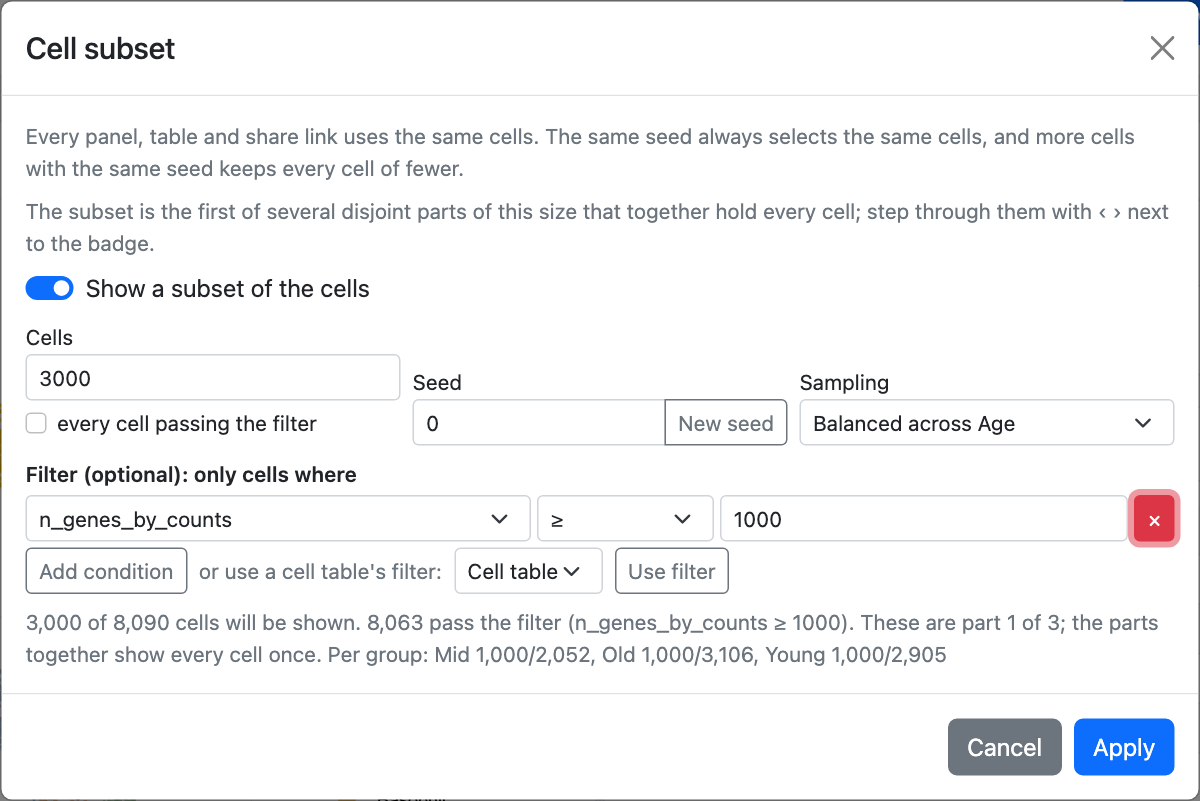
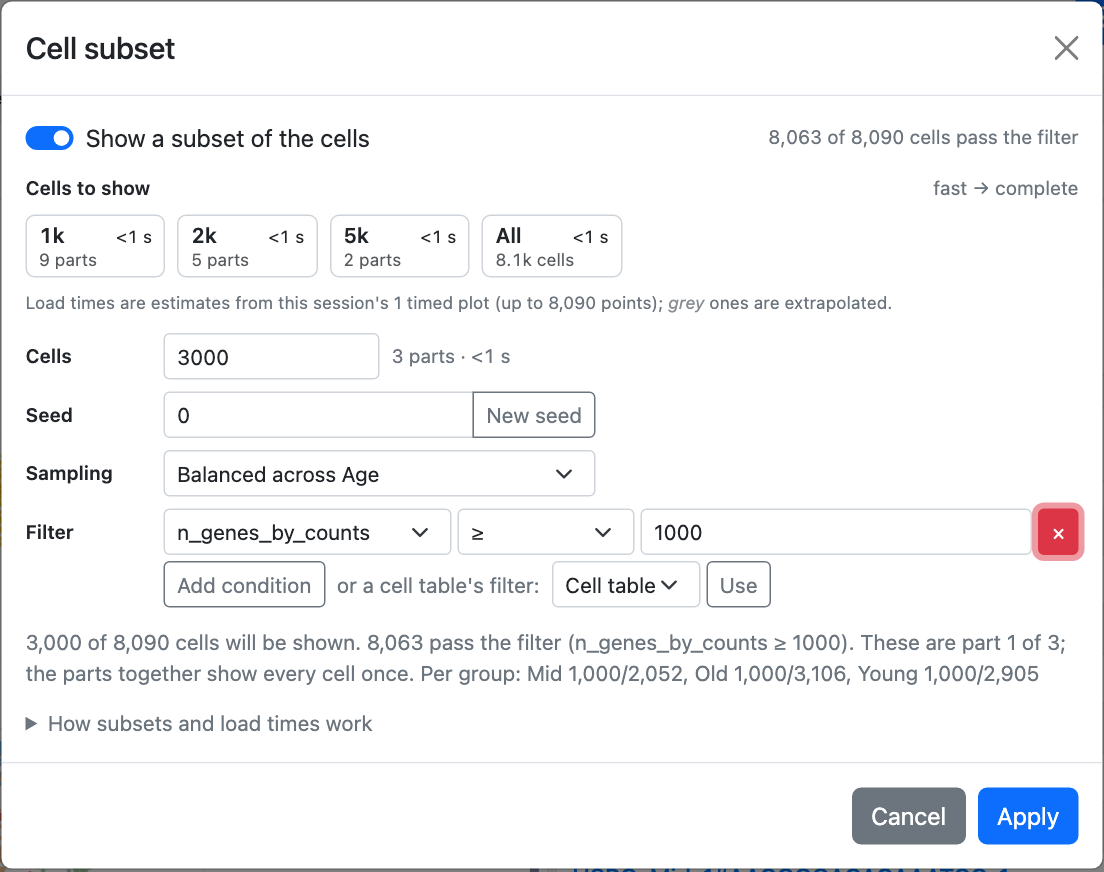
Keep a subset filter condition on one row; reshoot the dialog for the guide

diff --git a/static/css/styles.css b/static/css/styles.css
@@ -298,7 +298,9 @@ body {
 .subset-field > .input-group, .subset-field > .form-select { max-width: 18rem; }
 .subset-n-parts { font-size: 0.8rem; color: var(--bs-secondary-color, #6c757d); font-variant-numeric: tabular-nums; white-space: nowrap; }
 .subset-condition { display: flex; flex-wrap: wrap; gap: var(--u); align-items: center; margin-bottom: var(--u); }
-.subset-condition .subset-value-wrap { min-width: 8rem; }
+.subset-condition .subset-col { max-width: 12rem; }
+.subset-condition .subset-op { max-width: 8rem; }
+.subset-condition .subset-value-wrap { flex: 1 1 8rem; min-width: 0; }
 .subset-filter-actions { display: flex; flex-wrap: wrap; align-items: center; gap: calc(2 * var(--u)); }
 .subset-import { display: inline-flex; gap: var(--u); min-width: 0; }
 .subset-import .form-select { width: auto; max-width: 12rem; }
